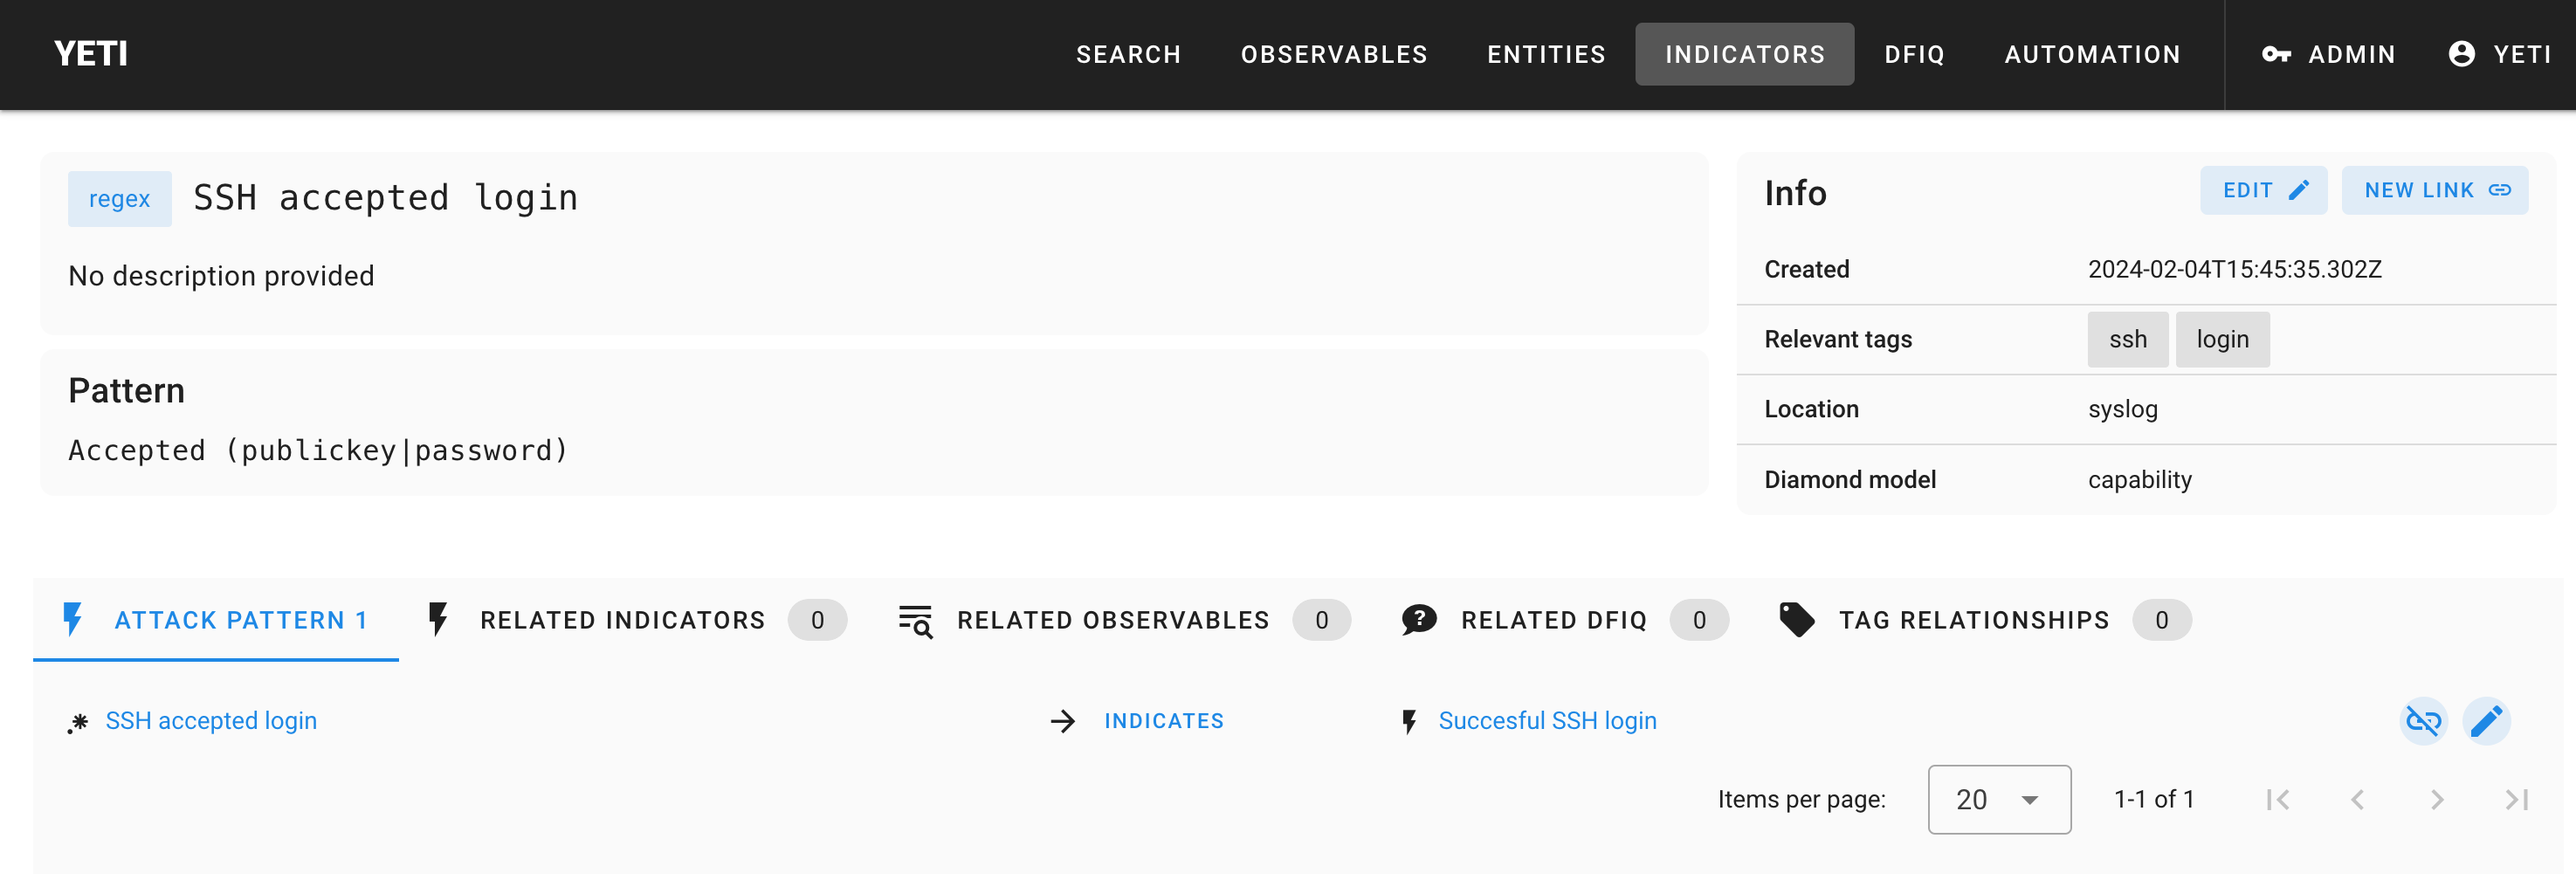
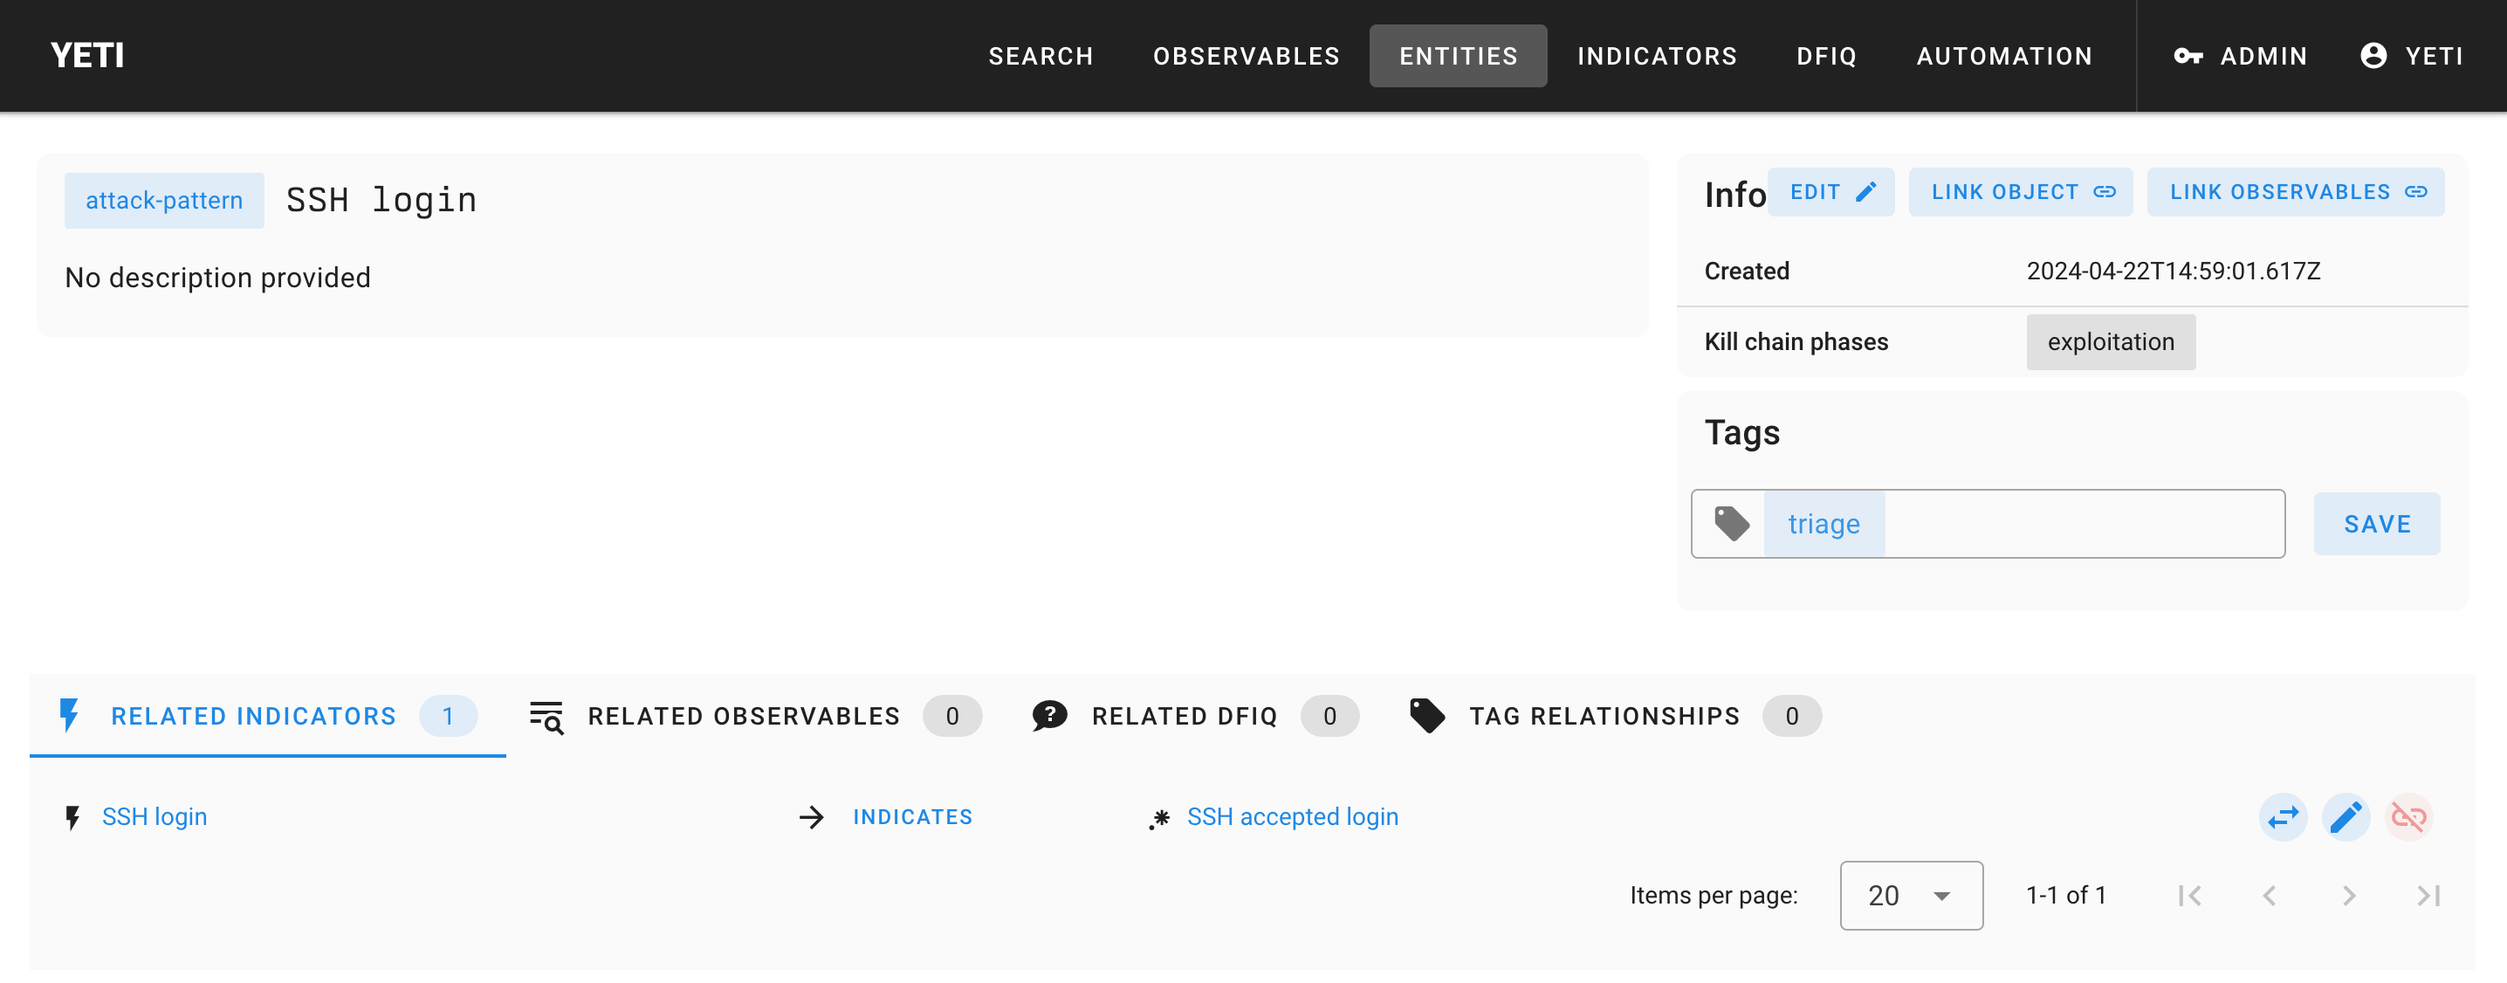
Fix the linking steps

diff --git a/content/guides/indicators-timesketch/investigation.md b/content/guides/indicators-timesketch/investigation.md
@@ -7,8 +7,8 @@ draft: false
 # First steps
 
 Make sure you've followed the
-[infrastructure setup guide](/guides/indicators-timesketch/infrastructure-setup) before
-following up with this page.
+[infrastructure setup guide](/guides/indicators-timesketch/infrastructure-setup)
+before following up with this page.
 
 ## Upload evidence to Timesketch
 
@@ -37,8 +37,8 @@ along with the instructions for Yeti below.
 ## Add some intel to Yeti
 
 Before we jump into the analysis of our timelines, it's a good idea to add some
-intel first to Yeti to get you started. We're going to document what a
-successful SSH login looks like in our logs.
+intel first to Yeti to get you started. We're going to document what a SSH
+accepted login looks like in our logs.
 
 ### New Attack Pattern: "SSH login"
 
@@ -49,14 +49,14 @@ from the post installation notes. Then head to "**Entities**", and on the
 right-side panel click "**+ New entity**". From the dropdown menu, select
 "**Attack pattern**".
 
-- Name: `Successful SSH login`
+- Name: `SSH accepted login`
 - Kill chain phases: `exploitation`
 - Description: Optional.
 
 Click "save". Congrats, you've added your first attack pattern to Yeti! You
 should be redirected to the corresponding details page.
 
-### New indicator: "Successful SSH login"
+### New indicator: "SSH accepted login"
 
 Now head over to "Indicators" in the menu bar. We're going to add a "**regular
 expression**" that captures what we're looking for. Like previously, head to
@@ -73,13 +73,23 @@ Pick "**Regular expression**" from the dropdown, and fill it in as follows:
 
 Click "save". Now, time to link the indicator to our attack pattern!
 
-On the indicator page, click the "New link" button in the Info box on the
-top-right corner. Search for "Successful SSH login". Set link type to
-"indicates" and click "Save". You should have
+### Tag the attack pattern and link it to the indicator
 
-Click on your freshly added indicator, and on the right hand side of the page,
-search for "SSH" in "Related entities", and click "Link". You should have
-something like this:
+Head back to the details page of the attack pattern you just created.
+
+In the "Tags" box on the right of the page, add the tag `triage` and click save.
+This tag will be used by Timesketch to filter out entities that should be taken
+into account for the triaging process.
+
+Then, link the attack apttern to the indicator you just created. On the
+top-right corner, click "Link object" in the Info box on the top-right corner.
+Start typing "SSH accepted login". Set link type to "indicates" and click
+"Save".
+
+That way, Timesketch will select all entities that have the triage tag, and
+"unroll" their graph looking for connected indicators.
+
+The final result should look like this:
 
 ![](screenshots/linked-ssh-to-indicator.png)
 
@@ -153,7 +163,7 @@ The main search bar also has new additions:
 
 ![](screenshots/screen7.png)
 
-You can click on the "Indicator matches for Successful SSH login" or the
+You can click on the "Indicator matches for SSH accepted login" or the
 "successful-ssh-login" tag to filter out events highlighted by Yeti. Or, search
 for `tag:"successful-ssh-login"` in the search bar.
 
@@ -258,7 +268,8 @@ filesystem paths to the weird dhpcd binary)
 
 Finally, now that you have some good documentation, imagine you're someone who
 comes across this weird dhpcd binary, and you want to know if it's been seen
-before. Head to the Yeti Search page, and paste the typo'd path in the search box:
+before. Head to the Yeti Search page, and paste the typo'd path in the search
+box:
 
 ![](screenshots/match-screenshot.png)
 
